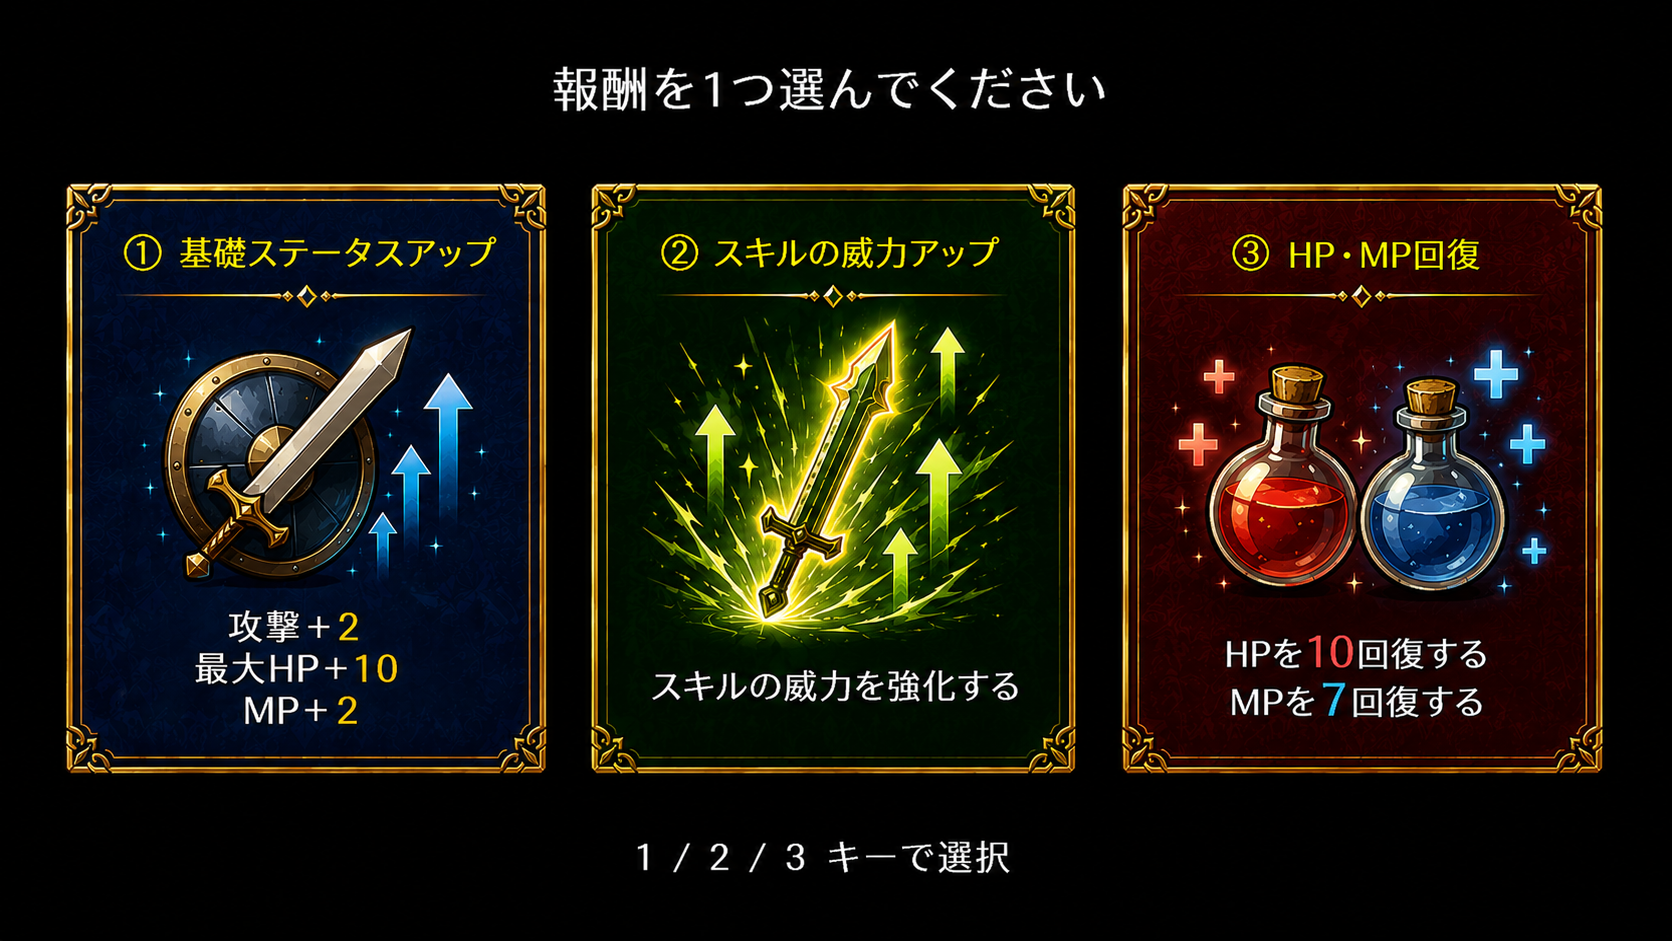
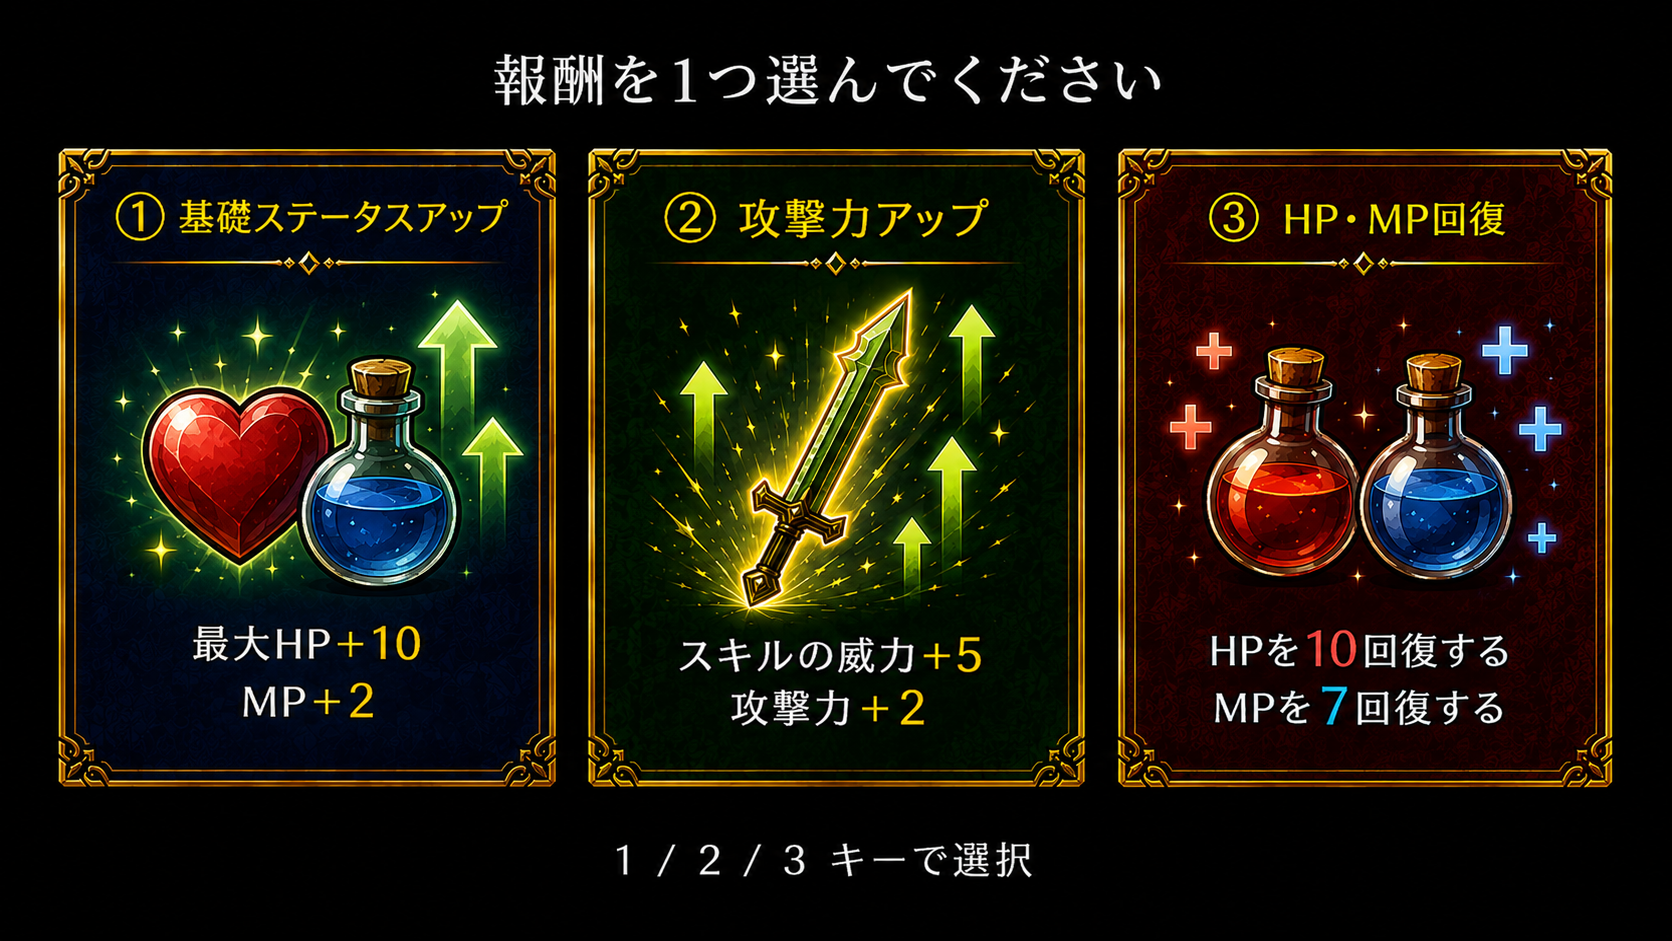
タイトル、ゲームオーバー、ゲームクリアの追加

diff --git a/ひな形/project/Source/TitleScene.cpp b/ひな形/project/Source/TitleScene.cpp
@@ -2,6 +2,8 @@
 
 TitleScene::TitleScene()
 {
+	Timage = LoadGraph("image/TITLE.png");
+
 }
 
 TitleScene::~TitleScene()
@@ -22,8 +24,10 @@ void TitleScene::Update()
 void TitleScene::Draw()
 {
 	extern const char* Version();
-	DrawString(0, 20, Version(), GetColor(255,255,255));
+	DrawExtendGraph(0, 0,1280, 720,Timage,TRUE);
+
+	/*DrawString(0, 20, Version(), GetColor(255,255,255));
 	DrawString(0, 0, "TITLE SCENE", GetColor(255,255,255));
 	DrawFormatString(100, 100, GetColor(255,255,255), "%4.1f", 1.0f / Time::DeltaTime());
-	DrawString(100, 400, "Push [P]Key To Play", GetColor(255, 255, 255));
+	DrawString(100, 400, "Push [P]Key To Play", GetColor(255, 255, 255));*/
 }

diff --git a/ひな形/project/Source/Flower.cpp b/ひな形/project/Source/Flower.cpp
@@ -6,8 +6,8 @@ Flower::Flower()
 {
     maxHP = 240;
     HP = maxHP;
-    Attack = 20;
-    Skill = 30;
+    Attack = 10;
+    Skill = 25;
 
     turnCount = 0;
 

diff --git a/ひな形/project/Source/Minotauros.cpp b/ひな形/project/Source/Minotauros.cpp
@@ -7,7 +7,7 @@ Minotauros::Minotauros()
     maxHP = 300;
     HP = maxHP;
     Attack = 20;
-    Skill = 45;
+    Skill = 35;
 
     turnCount = 0;
 
